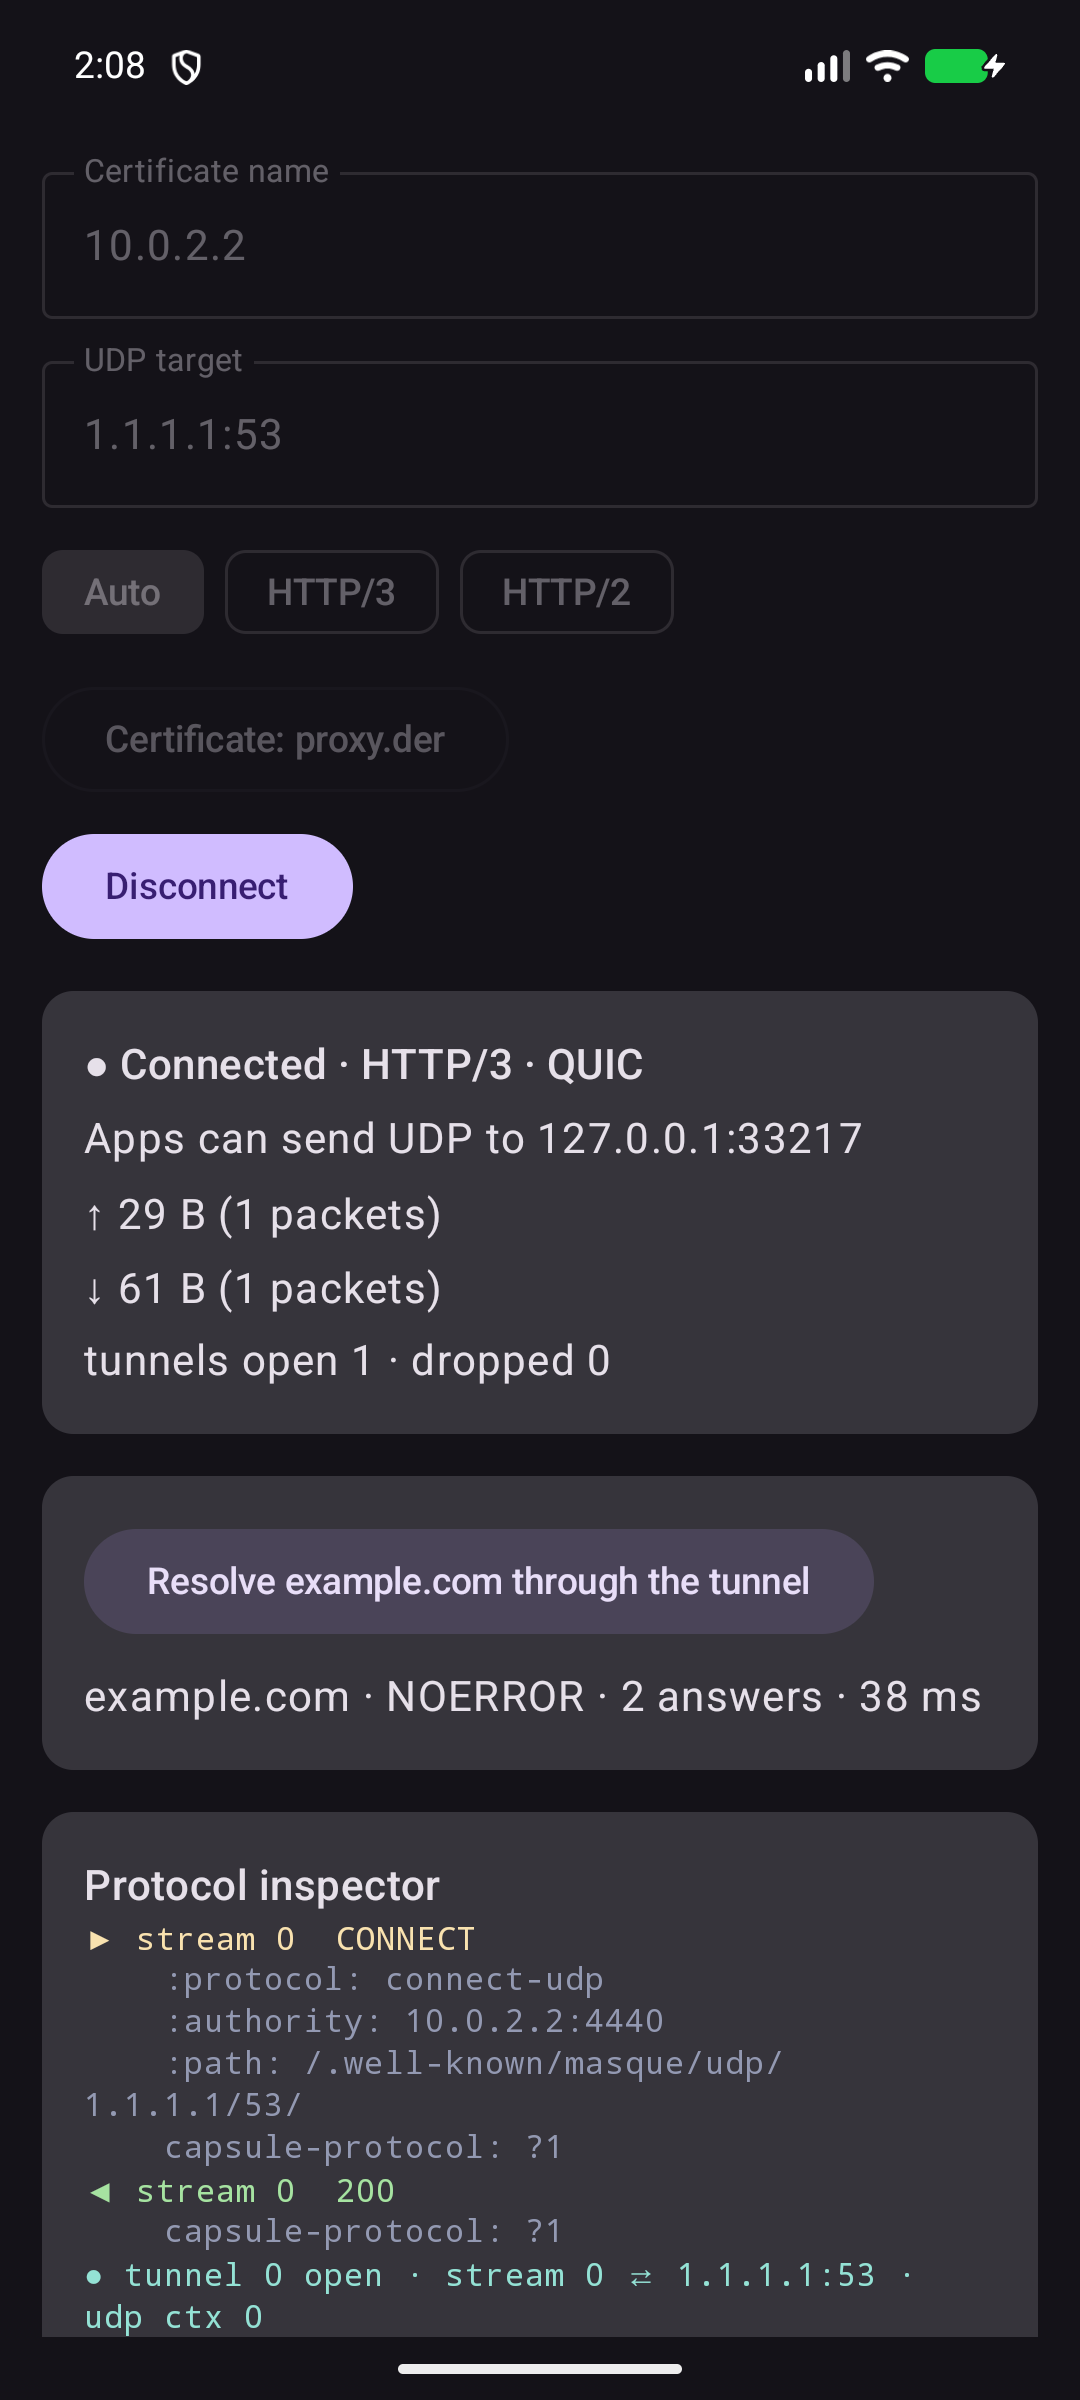
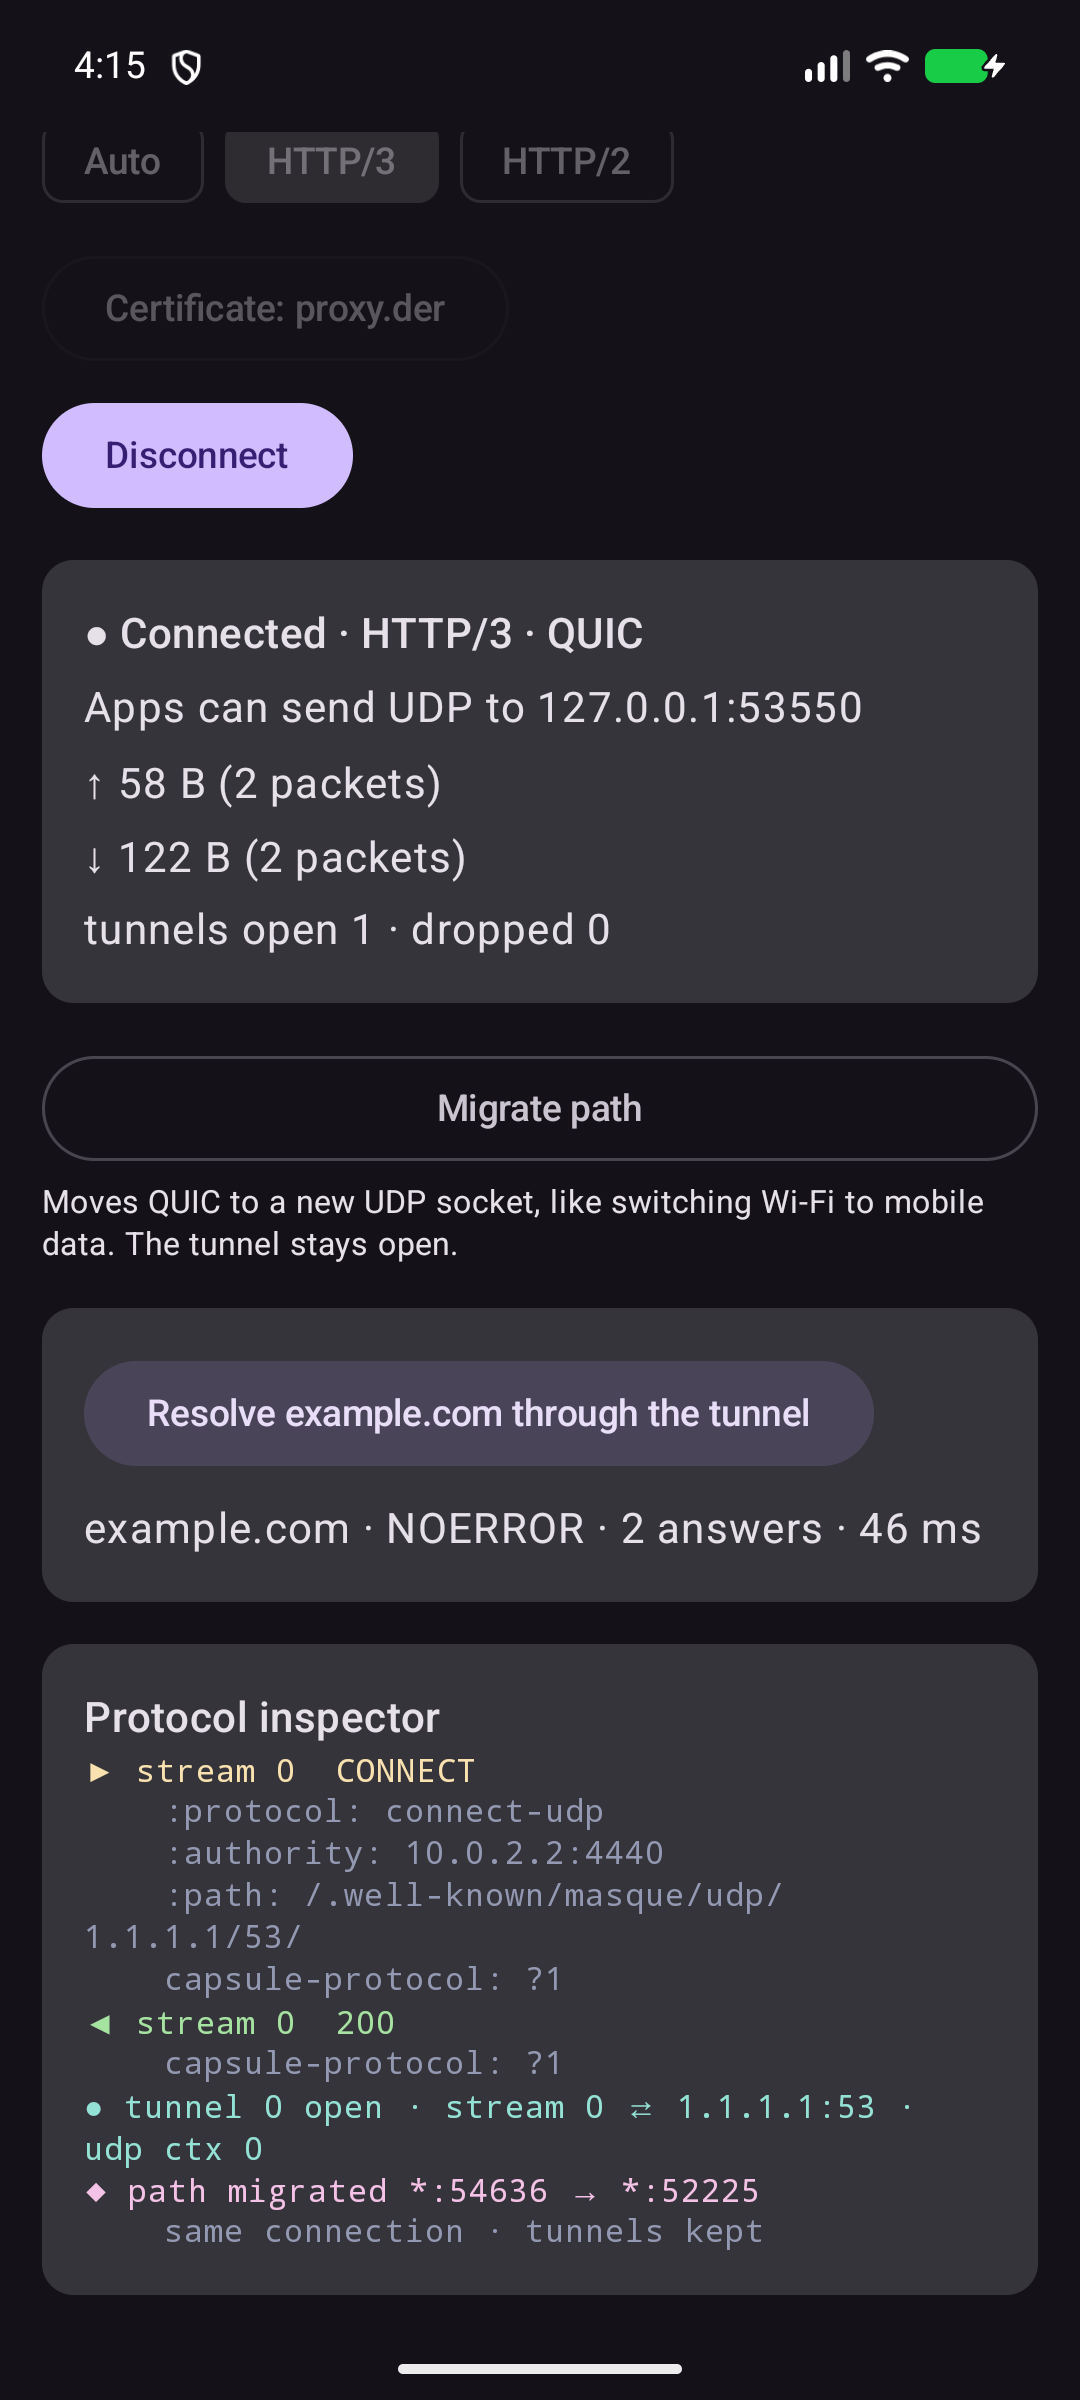
feat: Migrate path button on Android and iOS through masque-ffi

diff --git a/apps/ios/MiniMasque/ClientModel.swift b/apps/ios/MiniMasque/ClientModel.swift
@@ -15,6 +15,7 @@ final class ClientModel {
     var connecting = false
     var transportLabel: String?
     var localAddress: String?
+    var canMigrate = false
     var error: String?
     var stats: StatsRecord?
     var log: [String] = []
@@ -40,6 +41,10 @@ final class ClientModel {
         guard options.autoConnect else { return }
         await connect()
         if options.autoProbe { await probe() }
+        if options.autoMigrate {
+            await migrate()
+            await probe()
+        }
     }
 
     func setCertificate(name: String, data: Data) {
@@ -63,6 +68,7 @@ final class ClientModel {
             forwarder = started
             transportLabel = started.transport()
             localAddress = started.localAddress()
+            canMigrate = started.canMigrate()
             poll(started)
         } catch {
             self.error = "\(error)"
@@ -76,6 +82,17 @@ final class ClientModel {
         forwarder = nil
         transportLabel = nil
         localAddress = nil
+        canMigrate = false
+    }
+
+    func migrate() async {
+        guard let forwarder else { return }
+        do {
+            _ = try await Task.detached { try forwarder.migrate() }.value
+        } catch {
+            self.error = "\(error)"
+        }
+        refresh()
     }
 
     func probe() async {

diff --git a/apps/android/app/src/main/java/io/github/minimasque/ClientViewModel.kt b/apps/android/app/src/main/java/io/github/minimasque/ClientViewModel.kt
@@ -62,6 +62,7 @@ class ClientViewModel : ViewModel() {
                         connected = true,
                         transportLabel = started.transport(),
                         localAddress = started.localAddress(),
+                        canMigrate = started.canMigrate(),
                     )
                 }
                 poll(started)
@@ -76,7 +77,15 @@ class ClientViewModel : ViewModel() {
         forwarder?.stop()
         forwarder?.close()
         forwarder = null
-        mutableState.update { it.copy(connected = false, transportLabel = null, localAddress = null) }
+        mutableState.update { it.copy(connected = false, transportLabel = null, localAddress = null, canMigrate = false) }
+    }
+
+    fun migrate() {
+        val started = forwarder ?: return
+        viewModelScope.launch {
+            runCatching { withContext(Dispatchers.IO) { started.migrate() } }
+                .onFailure { error -> mutableState.update { it.copy(error = error.message) } }
+        }
     }
 
     fun probe(name: String) {

diff --git a/apps/android/app/src/main/java/io/github/minimasque/ui/MigrateButton.kt b/apps/android/app/src/main/java/io/github/minimasque/ui/MigrateButton.kt
@@ -1,0 +1,24 @@
+package io.github.minimasque.ui
+
+import androidx.compose.foundation.layout.Arrangement
+import androidx.compose.foundation.layout.Column
+import androidx.compose.foundation.layout.fillMaxWidth
+import androidx.compose.material3.MaterialTheme
+import androidx.compose.material3.OutlinedButton
+import androidx.compose.material3.Text
+import androidx.compose.runtime.Composable
+import androidx.compose.ui.Modifier
+import androidx.compose.ui.unit.dp
+
+@Composable
+fun MigrateButton(onMigrate: () -> Unit) {
+    Column(verticalArrangement = Arrangement.spacedBy(4.dp)) {
+        OutlinedButton(onClick = onMigrate, modifier = Modifier.fillMaxWidth()) {
+            Text("Migrate path")
+        }
+        Text(
+            "Moves QUIC to a new UDP socket, like switching Wi-Fi to mobile data. The tunnel stays open.",
+            style = MaterialTheme.typography.bodySmall,
+        )
+    }
+}

diff --git a/apps/ios/MiniMasque/LaunchOptions.swift b/apps/ios/MiniMasque/LaunchOptions.swift
@@ -6,6 +6,7 @@ struct LaunchOptions {
     var certificatePath: String?
     var autoConnect = false
     var autoProbe = false
+    var autoMigrate = false
 
     static func fromEnvironment(_ environment: [String: String] = ProcessInfo.processInfo.environment) -> LaunchOptions {
         var options = LaunchOptions()
@@ -14,6 +15,7 @@ struct LaunchOptions {
         options.certificatePath = environment["MINIMASQUE_CA_PATH"]
         options.autoConnect = environment["MINIMASQUE_AUTOCONNECT"] == "1"
         options.autoProbe = environment["MINIMASQUE_AUTOPROBE"] == "1"
+        options.autoMigrate = environment["MINIMASQUE_AUTOMIGRATE"] == "1"
         return options
     }
 }

diff --git a/apps/ios/MiniMasque/ClientView.swift b/apps/ios/MiniMasque/ClientView.swift
@@ -11,11 +11,15 @@ struct ClientView: View {
                 ConnectionForm(model: model)
                 if model.connected {
                     StatsCard(model: model)
+                    if model.canMigrate {
+                        MigrateButton { Task { await model.migrate() } }
+                    }
                     ProbeCard(result: model.probeResult) { Task { await model.probe() } }
                 }
                 InspectorLog(lines: model.log)
             }
             .padding()
         }
+        .defaultScrollAnchor(.bottom)
     }
 }

diff --git a/apps/ios/MiniMasque/MigrateButton.swift b/apps/ios/MiniMasque/MigrateButton.swift
@@ -1,0 +1,16 @@
+import SwiftUI
+
+struct MigrateButton: View {
+    let action: () -> Void
+
+    var body: some View {
+        VStack(alignment: .leading, spacing: 4) {
+            Button("Migrate path", action: action)
+                .buttonStyle(.bordered)
+                .frame(maxWidth: .infinity)
+            Text("Moves QUIC to a new UDP socket, like switching Wi-Fi to mobile data. The tunnel stays open.")
+                .font(.caption)
+                .foregroundStyle(.secondary)
+        }
+    }
+}

diff --git a/apps/android/app/src/main/java/io/github/minimasque/ui/ClientScreen.kt b/apps/android/app/src/main/java/io/github/minimasque/ui/ClientScreen.kt
@@ -40,6 +40,9 @@ fun ClientScreen(model: ClientViewModel = viewModel()) {
             )
             if (state.connected) {
                 StatsCard(state)
+                if (state.canMigrate) {
+                    MigrateButton(onMigrate = model::migrate)
+                }
                 ProbeCard(result = state.probe, onProbe = model::probe)
             }
             InspectorLog(state.log)

diff --git a/apps/android/app/src/main/java/io/github/minimasque/ClientState.kt b/apps/android/app/src/main/java/io/github/minimasque/ClientState.kt
@@ -12,6 +12,7 @@ data class ClientState(
     val connected: Boolean = false,
     val transportLabel: String? = null,
     val localAddress: String? = null,
+    val canMigrate: Boolean = false,
     val error: String? = null,
     val stats: StatsRecord? = null,
     val log: List<String> = emptyList(),

diff --git a/apps/android/app/src/main/java/io/github/minimasque/ui/InspectorLog.kt b/apps/android/app/src/main/java/io/github/minimasque/ui/InspectorLog.kt
@@ -16,6 +16,7 @@ private fun colorFor(line: String): Color = when (line.firstOrNull()) {
     '▶' -> Color(0xFFF9E2AF)
     '◀' -> Color(0xFFA6E3A1)
     '●' -> Color(0xFF94E2D5)
+    '◆' -> Color(0xFFF5C2E7)
     else -> Color(0xFF9399B2)
 }
 

diff --git a/apps/ios/MiniMasque/InspectorLog.swift b/apps/ios/MiniMasque/InspectorLog.swift
@@ -8,6 +8,7 @@ struct InspectorLog: View {
         case "▶": return .yellow
         case "◀": return .green
         case "●": return .teal
+        case "◆": return .pink
         default: return .secondary
         }
     }

diff --git a/crates/masque-ffi/src/forwarder.rs b/crates/masque-ffi/src/forwarder.rs
@@ -5,6 +5,7 @@ use masque_client::transport::{ConnectOptions, Connected, Transport};
 use masque_core::{Target, connect_udp};
 use masque_h3::describe;
 use masque_h3::event::Event;
+use masque_h3::migrate::Migrator;
 use masque_h3::stats::Stats;
 use rustls::RootCertStore;
 use rustls::pki_types::CertificateDer;
@@ -19,12 +20,13 @@ use crate::records::StatsRecord;
 
 #[derive(uniffi::Object)]
 pub struct Forwarder {
-    _runtime: Runtime,
+    runtime: Runtime,
     stats: Arc<Stats>,
     events: Mutex<Receiver<Event>>,
     task: JoinHandle<Result<(), masque_h3::Error>>,
     transport: String,
     local: String,
+    migrator: Option<Migrator>,
 }
 
 struct Started {
@@ -33,6 +35,7 @@ struct Started {
     task: JoinHandle<Result<(), masque_h3::Error>>,
     transport: String,
     local: String,
+    migrator: Option<Migrator>,
 }
 
 async fn start(config: ForwarderConfig) -> Result<Started, masque_h3::Error> {
@@ -50,6 +53,7 @@ async fn start(config: ForwarderConfig) -> Result<Started, masque_h3::Error> {
     let connected = Connected::connect(&options, roots).await?;
     let transport = connected.label().to_owned();
     let stats = connected.stats();
+    let migrator = connected.migrator();
     let events = stats.subscribe();
     let tunnel = connected.open(&template, &target).await?;
     let socket = UdpSocket::bind(config.local.as_str()).await?;
@@ -61,6 +65,7 @@ async fn start(config: ForwarderConfig) -> Result<Started, masque_h3::Error> {
         task,
         transport,
         local,
+        migrator,
     })
 }
 
@@ -71,12 +76,13 @@ impl Forwarder {
         let runtime = Runtime::new().map_err(failed)?;
         let started = runtime.block_on(start(config)).map_err(failed)?;
         Ok(Arc::new(Self {
-            _runtime: runtime,
+            runtime,
             stats: started.stats,
             events: Mutex::new(started.events),
             task: started.task,
             transport: started.transport,
             local: started.local,
+            migrator: started.migrator,
         }))
     }
 
@@ -97,6 +103,19 @@ impl Forwarder {
         std::iter::from_fn(|| events.try_recv().ok())
             .flat_map(|event| describe::lines(&event))
             .collect()
+    }
+
+    pub fn can_migrate(&self) -> bool {
+        self.migrator.is_some()
+    }
+
+    pub fn migrate(&self) -> Result<String, MasqueError> {
+        let migrator = self
+            .migrator
+            .as_ref()
+            .ok_or_else(|| failed("migration needs HTTP/3"))?;
+        let _context = self.runtime.enter();
+        Ok(migrator.migrate().map_err(failed)?.to_string())
     }
 
     pub fn is_running(&self) -> bool {

diff --git a/crates/masque-ffi/tests/forwarder.rs b/crates/masque-ffi/tests/forwarder.rs
@@ -65,6 +65,18 @@ fn forwards_local_udp_through_the_proxy() {
         "{events:?}"
     );
     assert!(forwarder.is_running());
+
+    assert!(forwarder.can_migrate());
+    forwarder.migrate().unwrap();
+    app.send_to(b"moved", forwarder.local_address()).unwrap();
+    let (n, _) = app.recv_from(&mut buf).unwrap();
+    assert_eq!(&buf[..n], b"moved");
+    assert!(
+        forwarder
+            .drain_events()
+            .iter()
+            .any(|line| line.starts_with("◆ path migrated")),
+    );
     forwarder.stop();
 }
 
